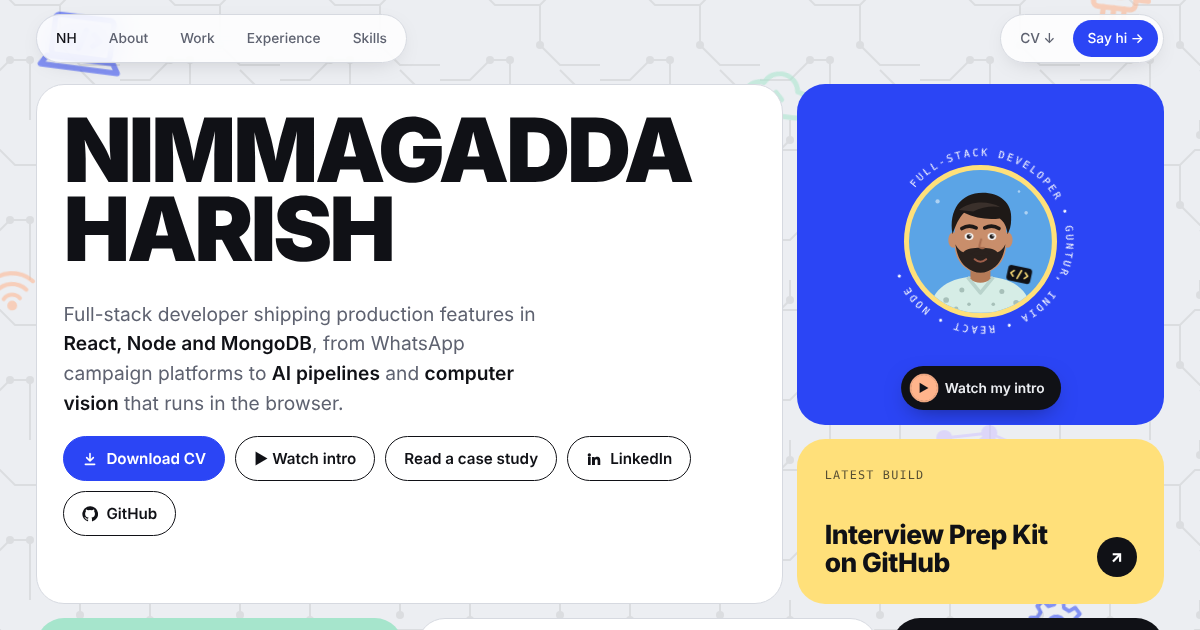
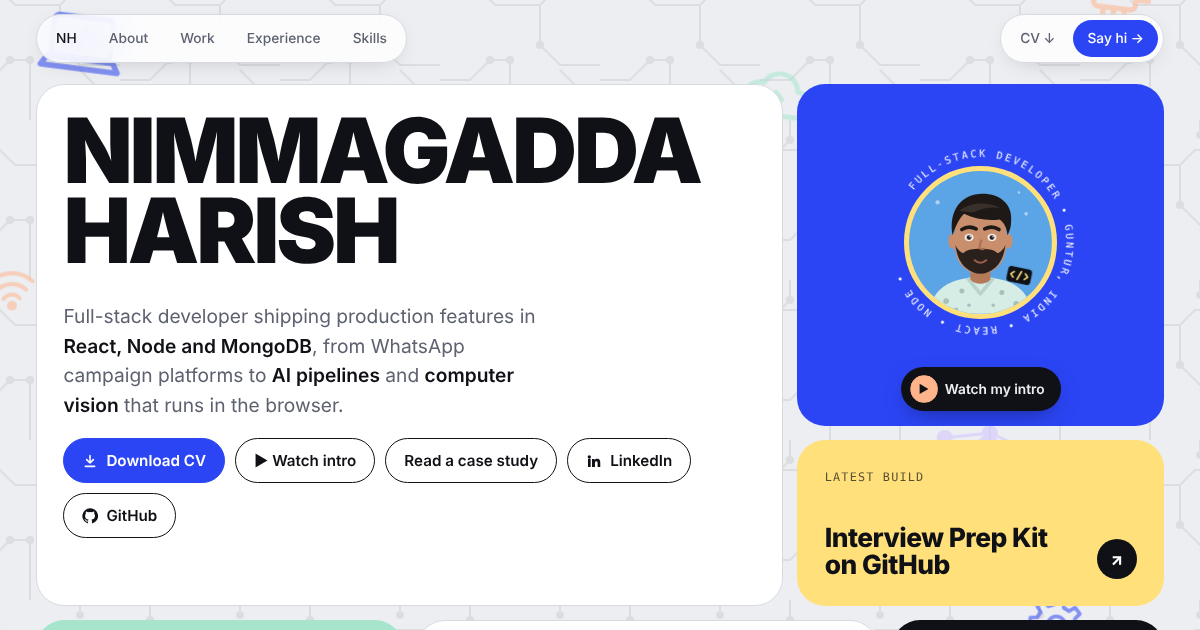
Fit hero name to its tile on every screen size
Claude-Session: https://claude.ai/code/session_01R7coNSBgf89SndgJRq9j1w

diff --git a/index.html b/index.html
@@ -80,10 +80,10 @@ a:focus-visible, button:focus-visible { outline: 3px solid var(--cobalt); outlin
 .t.in { animation: pop .9s var(--ease) backwards; animation-delay: var(--d, 0ms); }
 @keyframes pop { from { transform: translateY(30px) scale(.97); opacity: 0; } to { transform: none; opacity: 1; } }
 
-.t-name { grid-column: span 8; grid-row: span 3; display: flex; flex-direction: column; justify-content: space-between; gap: 2rem; }
+.t-name { grid-column: span 8; grid-row: span 3; display: flex; flex-direction: column; justify-content: space-between; gap: 2rem; container-type: inline-size; }
 .t-name .hi { font-family: var(--mono); font-size: .8rem; color: var(--muted); display: flex; align-items: center; gap: 8px; }
 .t-name .hi i { width: 8px; height: 8px; border-radius: 50%; background: #1FB36B; box-shadow: 0 0 0 4px color-mix(in srgb, #1FB36B 25%, transparent); }
-h1 { font-family: var(--wide); font-weight: 900; font-stretch: 125%; text-transform: uppercase; letter-spacing: -.035em; line-height: .88; margin: 0; font-size: clamp(2.4rem, 7.4vw, 7rem); }
+h1 { font-family: var(--wide); font-weight: 900; font-stretch: 125%; text-transform: uppercase; letter-spacing: -.035em; line-height: .88; margin: 0; font-size: clamp(2rem, 13cqi, 8rem); white-space: nowrap; }
 h1 .ln { display: block; overflow: hidden; }
 h1 .ln > span { display: inline-block; animation: up 1.1s var(--ease) both; animation-delay: var(--d); }
 h1 .serif { font-size: 1.08em; color: var(--cobalt); }
@@ -834,6 +834,22 @@ h2 .serif { color: var(--cobalt); font-size: 1.1em; }
   }
   if (!reduce) requestAnimationFrame(bgFrame);
   else shapes.forEach(function (o) { o.el.style.transform = 'translate(' + (o.x * innerWidth - o.s / 2) + 'px,' + (o.y * innerHeight) + 'px)'; });
+
+  /* fit the hero name to its tile so it is never clipped */
+  (function () {
+    var h = $('h1'); if (!h) return;
+    var lines = Array.prototype.slice.call(h.querySelectorAll('.ln > span'));
+    function fit() {
+      h.style.fontSize = '';
+      var size = parseFloat(getComputedStyle(h).fontSize), avail = h.clientWidth;
+      var widest = Math.max.apply(null, lines.map(function (l) { return l.scrollWidth; }));
+      if (widest > avail && widest > 0) h.style.fontSize = Math.floor(size * avail / widest * 0.98) + 'px';
+    }
+    fit();
+    if (document.fonts && document.fonts.ready) document.fonts.ready.then(fit);
+    addEventListener('resize', fit);
+    addEventListener('load', fit);
+  })();
 
   /* split lead into words */
   var lead = $('#lead'), parts = [];
